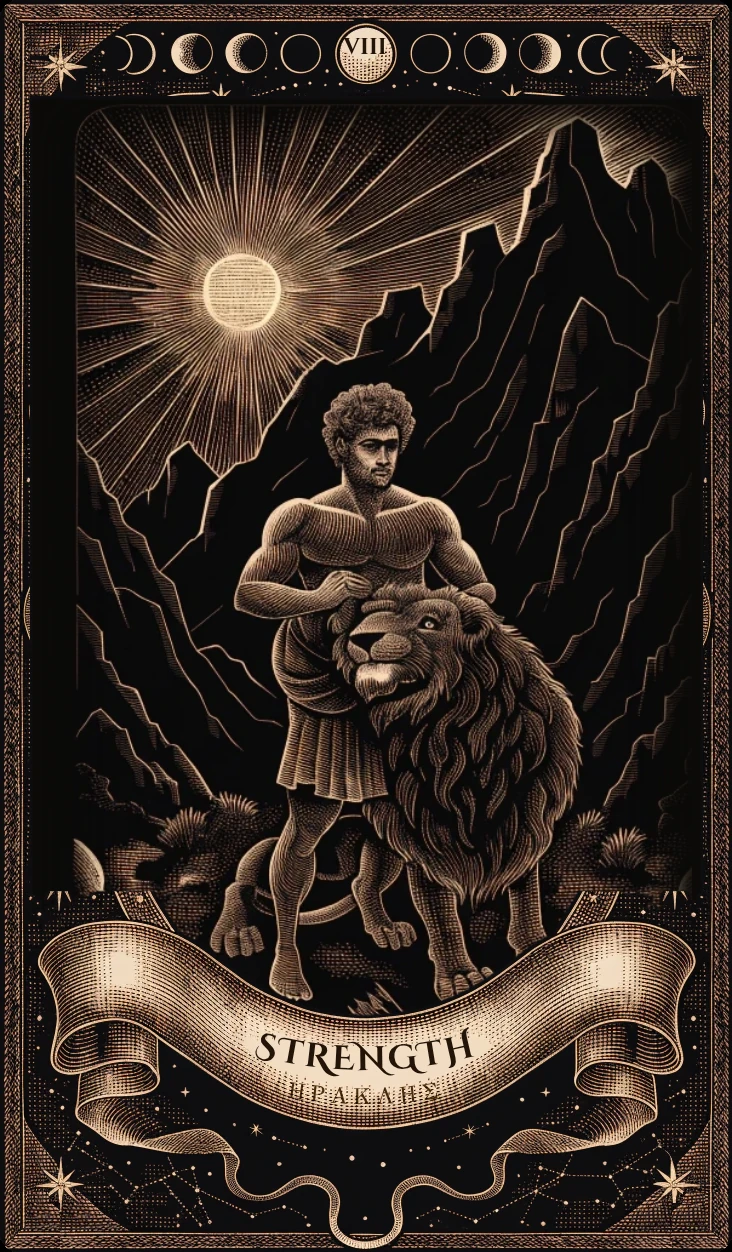
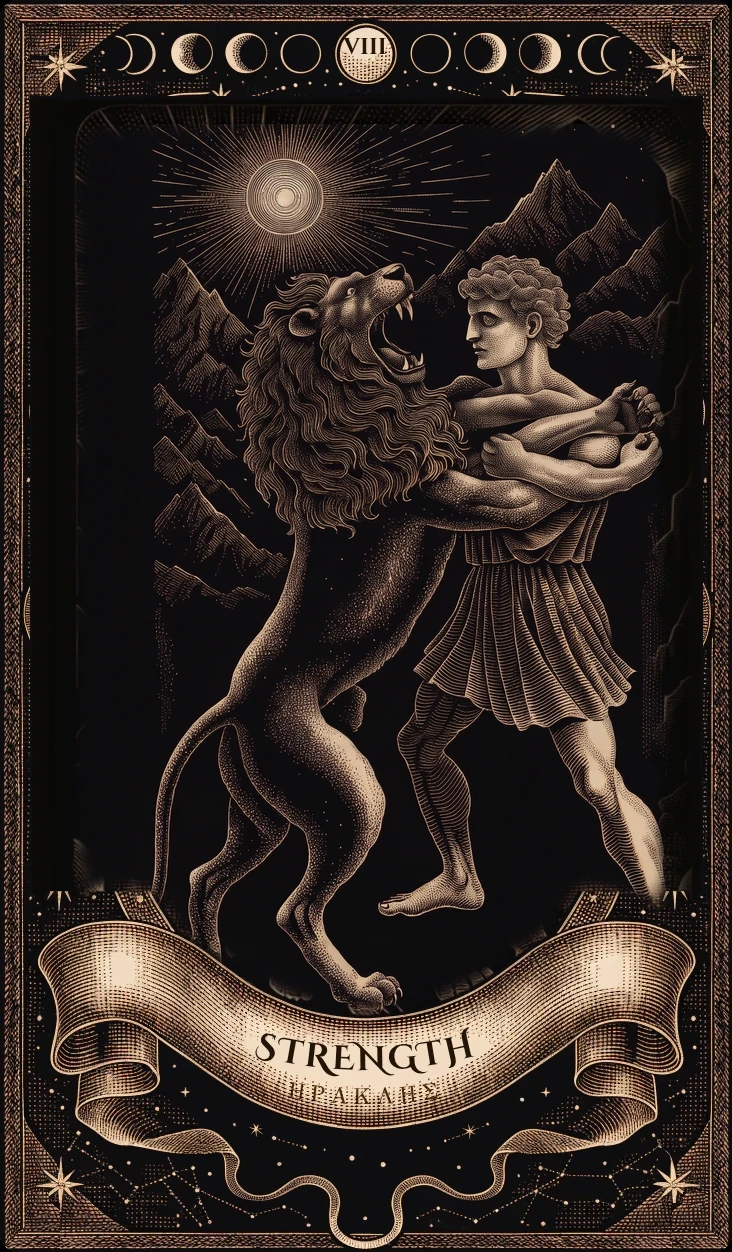
力量正位重畫：海克力斯與涅墨亞獅子扭打，修正多出的腿
Claude-Session: https://claude.ai/code/session_01QtozHP4e8XUX6JxbuiPicL

diff --git a/指示清單.md b/指示清單.md
@@ -83,6 +83,6 @@
 | 74 | 11-27 | 揭牌時每翻一張，祭司就先說些話，不要等三張翻完；要有驚訝的臨場感 | ✅ | `js/tarot/reveal.js`：牌位開場（白話）＋她的反應（叫出牌名，遇死神、惡魔、高塔會一怔，好牌鬆一口氣）＋第一眼＋和前一張的關係；翻完最後一張才降下神諭；AI 在抽完牌時就開始寫 |
 | 75 | 11-27 | 「左徑、右徑」等用詞沒人看得懂；保留神祕感但要讓人懂 | ✅ | 牌位名旁加白話小字（左徑・第一個選擇、神示・先看清的事、往昔・從前…）；牌陣說明、低語、古法解讀、AI 稱呼都改寫 |
 | 76 | 11-27 | 還有很多 AI 用詞（「一週內就講」「你的本事不缺」「不是 A 是 B」、叫人一條條寫下來等鼓勵口吻），要像正常人日常交談 | ✅ | 提示詞重寫「說話的方式」：像真的人在聊天、說看到的不開處方、不排期限、不派功課、不打氣、不評價、禁「不是A是B」所有變形；附對照例句；AI人設.md 同步 |
-| 77 | 11-27 | 卡圖有三隻腳的，請重做（銅版畫、金黑線，餵參照圖，不要餵卡框與名稱）；要有較勁感，不要溫柔；畫風不能跑掉 | 🔧 | 檢查 44 張，只有力量正位有問題（海克力斯與獅子的腿混在一起）。試了四版：臉太寫實／太平板／像在玩／扭打版姿勢對但太亮太黃。Recraft 點數用完，暫用原圖；參照圖（只有畫面）在 art-ref 分支 |
+| 77 | 11-27 | 卡圖有三隻腳的，請重做（銅版畫、金黑線，餵參照圖，不要餵卡框與名稱）；要有較勁感，不要溫柔；畫風不能跑掉 | ✅ | 檢查 44 張，只有力量正位有問題。改用卡牌自訂風格重畫海克力斯與獅子扭打（需求方選第三版），修掉後腳多出的爪，合回原卡框 |
 | 78 | 11-27 | 審判卡圖畫風不搭 | ✅ | 試畫一版後需求方決定維持原圖 |
 
